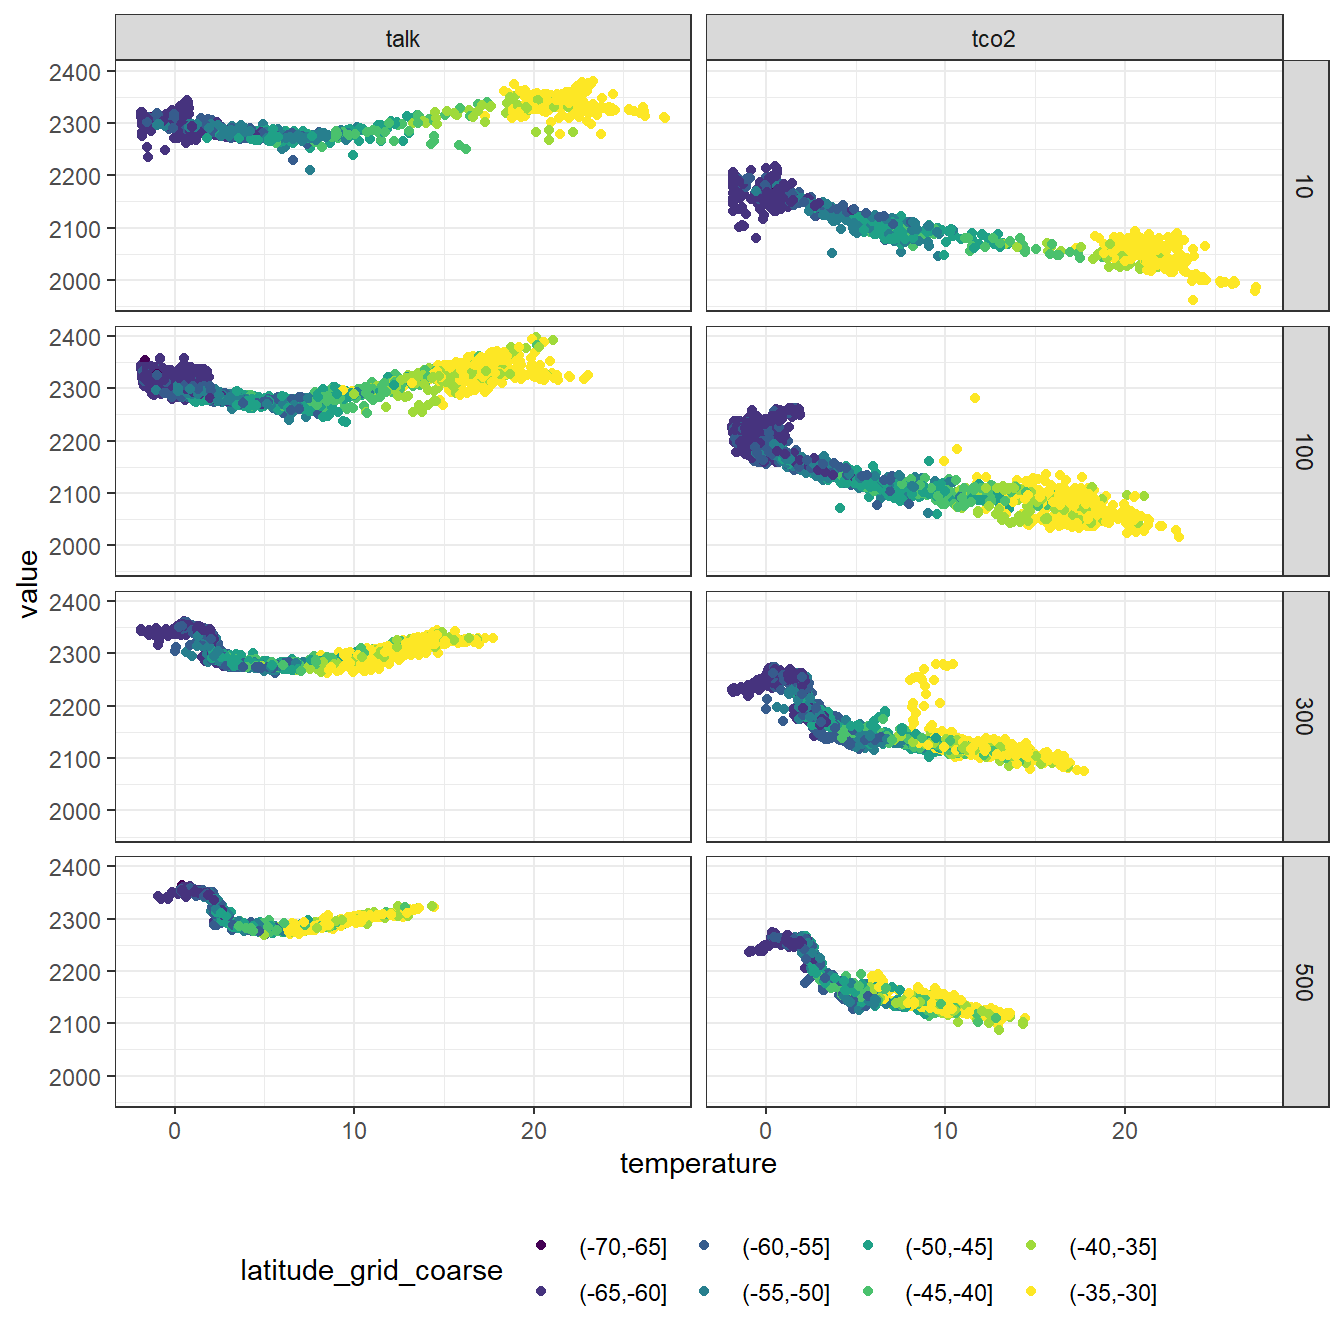
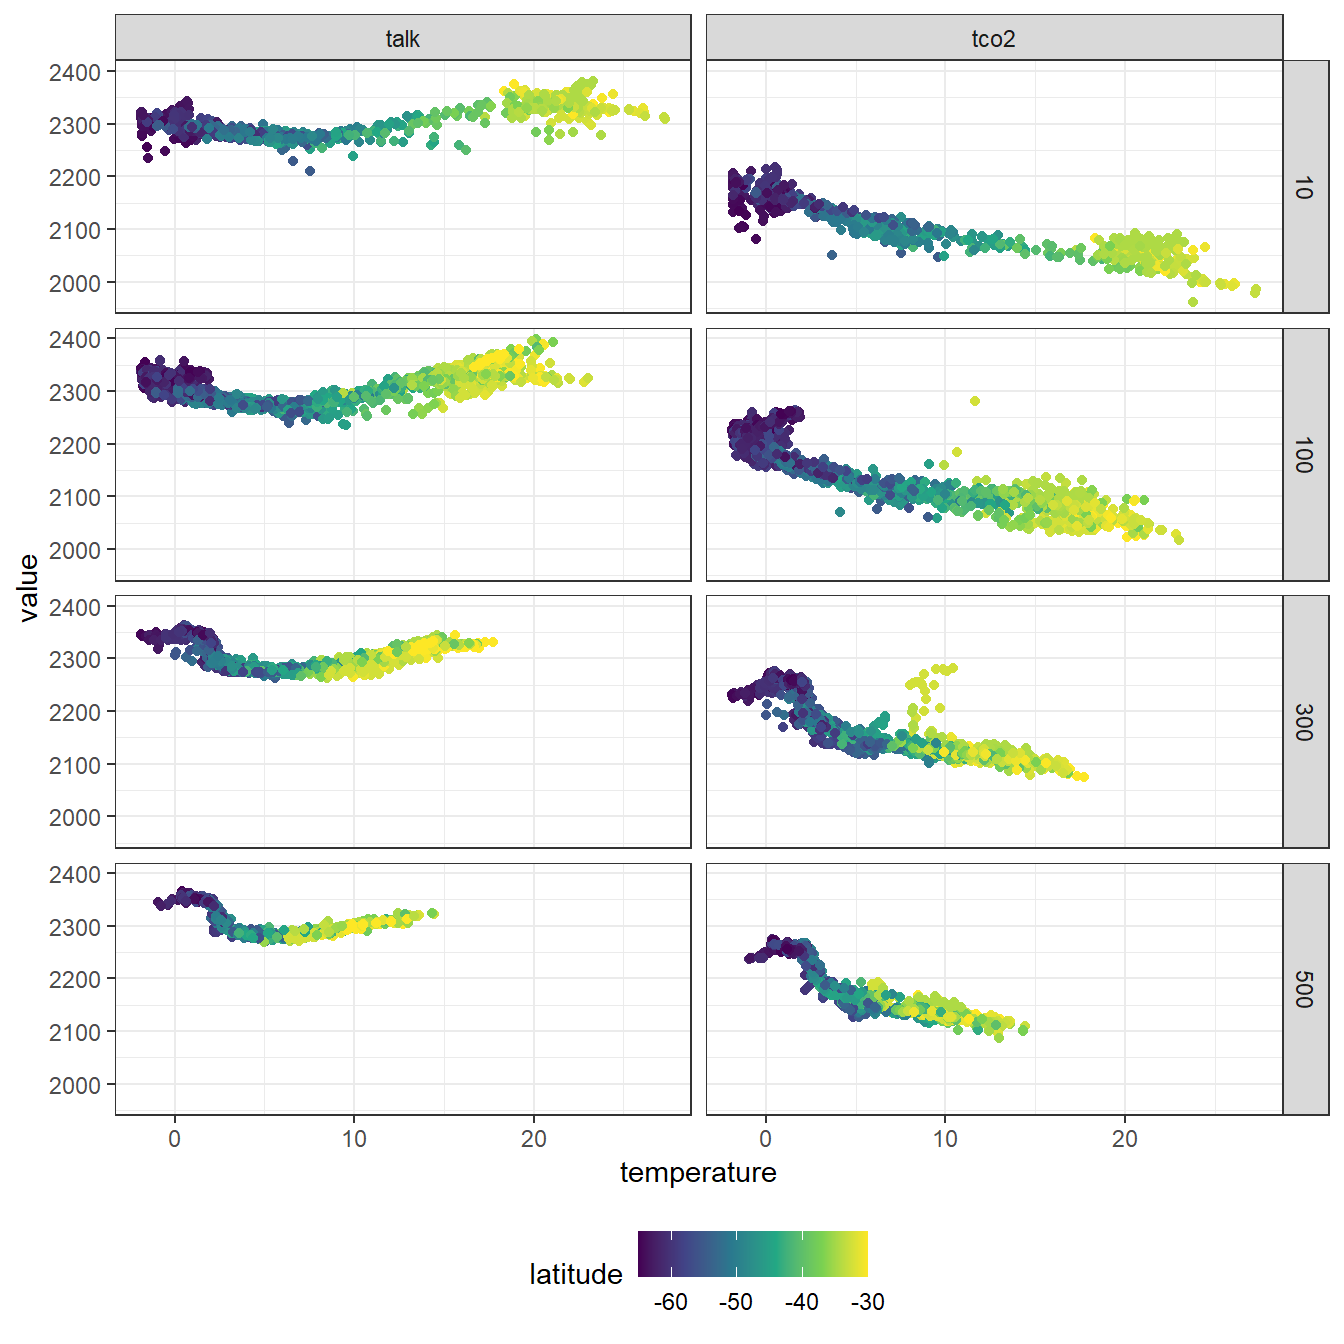
Build site.

diff --git a/docs/SO_AT.html b/docs/SO_AT.html
@@ -525,16 +525,16 @@ This reproducible <a href="http://rmarkdown.rstudio.com">R Markdown</a> analysis
 <div class="panel panel-default">
 <div class="panel-heading">
 <p class="panel-title">
-<a data-toggle="collapse" data-parent="#workflowr-checks" href="#strongRepositoryversionstrongahrefhttpsgithubcomjensdanielmuellerGLODAPATSouthernOceantree45001f97a0394c71df12112373ee0faaf63329a6targetblank45001f9a"> <span class="glyphicon glyphicon-ok text-success" aria-hidden="true"></span> <strong>Repository version:</strong> <a href="https://github.com/jens-daniel-mueller/GLODAP_AT_Southern_Ocean/tree/45001f97a0394c71df12112373ee0faaf63329a6" target="_blank">45001f9</a> </a>
+<a data-toggle="collapse" data-parent="#workflowr-checks" href="#strongRepositoryversionstrongahrefhttpsgithubcomjensdanielmuellerGLODAPATSouthernOceantree479c2f674337125e88ae489b85f254185bcf51e4targetblank479c2f6a"> <span class="glyphicon glyphicon-ok text-success" aria-hidden="true"></span> <strong>Repository version:</strong> <a href="https://github.com/jens-daniel-mueller/GLODAP_AT_Southern_Ocean/tree/479c2f674337125e88ae489b85f254185bcf51e4" target="_blank">479c2f6</a> </a>
 </p>
 </div>
[2 lines of base64/hex data omitted]
 <div class="panel-body">
 <p>
 Great! You are using Git for version control. Tracking code development and connecting the code version to the results is critical for reproducibility.
 </p>
 <p>
-The results in this page were generated with repository version <a href="https://github.com/jens-daniel-mueller/GLODAP_AT_Southern_Ocean/tree/45001f97a0394c71df12112373ee0faaf63329a6" target="_blank">45001f9</a>. See the <em>Past versions</em> tab to see a history of the changes made to the R Markdown and HTML files.
+The results in this page were generated with repository version <a href="https://github.com/jens-daniel-mueller/GLODAP_AT_Southern_Ocean/tree/479c2f674337125e88ae489b85f254185bcf51e4" target="_blank">479c2f6</a>. See the <em>Past versions</em> tab to see a history of the changes made to the R Markdown and HTML files.
 </p>
 <p>
 Note that you need to be careful to ensure that all relevant files for the analysis have been committed to Git prior to generating the results (you can use <code>wflow_publish</code> or <code>wflow_git_commit</code>). workflowr only checks the R Markdown file, but you know if there are other scripts or data files that it depends on. Below is the status of the Git repository when the results were generated:
@@ -543,6 +543,7 @@ Note that you need to be careful to ensure that all relevant files for the analy
 Ignored files:
     Ignored:    .Rhistory
     Ignored:    .Rproj.user/
+    Ignored:    analysis/figure/
     Ignored:    data/_summarized_data_files/
 
 </code></pre>
@@ -582,6 +583,40 @@ Message
 </tr>
 </thead>
 <tbody>
+<tr>
+<td>
+Rmd
+</td>
+<td>
+<a href="https://github.com/jens-daniel-mueller/GLODAP_AT_Southern_Ocean/blob/479c2f674337125e88ae489b85f254185bcf51e4/analysis/SO_AT.Rmd" target="_blank">479c2f6</a>
+</td>
+<td>
+jens-daniel-mueller
+</td>
+<td>
+2020-04-23
+</td>
+<td>
+continous lat color scale
+</td>
+</tr>
+<tr>
+<td>
+html
+</td>
+<td>
+<a href="https://rawcdn.githack.com/jens-daniel-mueller/GLODAP_AT_Southern_Ocean/1d804167e44614b997e88e1a5097bab2ff8e1b3f/docs/SO_AT.html" target="_blank">1d80416</a>
+</td>
+<td>
+jens-daniel-mueller
+</td>
+<td>
+2020-04-23
+</td>
+<td>
+Build site.
+</td>
+</tr>
 <tr>
 <td>
 Rmd
@@ -1313,9 +1348,9 @@ GLODAP_SO_long %&gt;%
 <p>First impression: - DIC depends more strongly on temperature, likely due to the higher solubilty of cold waters</p>
 <pre class="r"><code>GLODAP_SO_long %&gt;% 
   filter(depth_grid %in% c(10, 100, 300, 500)) %&gt;% 
-  ggplot(aes(temperature, value, col=latitude_grid_coarse))+
+  ggplot(aes(temperature, value, col=latitude))+
   geom_point()+
-  scale_color_viridis_d()+
+  scale_color_viridis_c()+
   facet_grid(depth_grid~var)+
   theme(legend.position = &quot;bottom&quot;)</code></pre>
 <p><img src="figure/SO_AT.Rmd/tco2_talk_vs_temp_correlation-1.png" width="672" style="display: block; margin: auto;" /></p>
